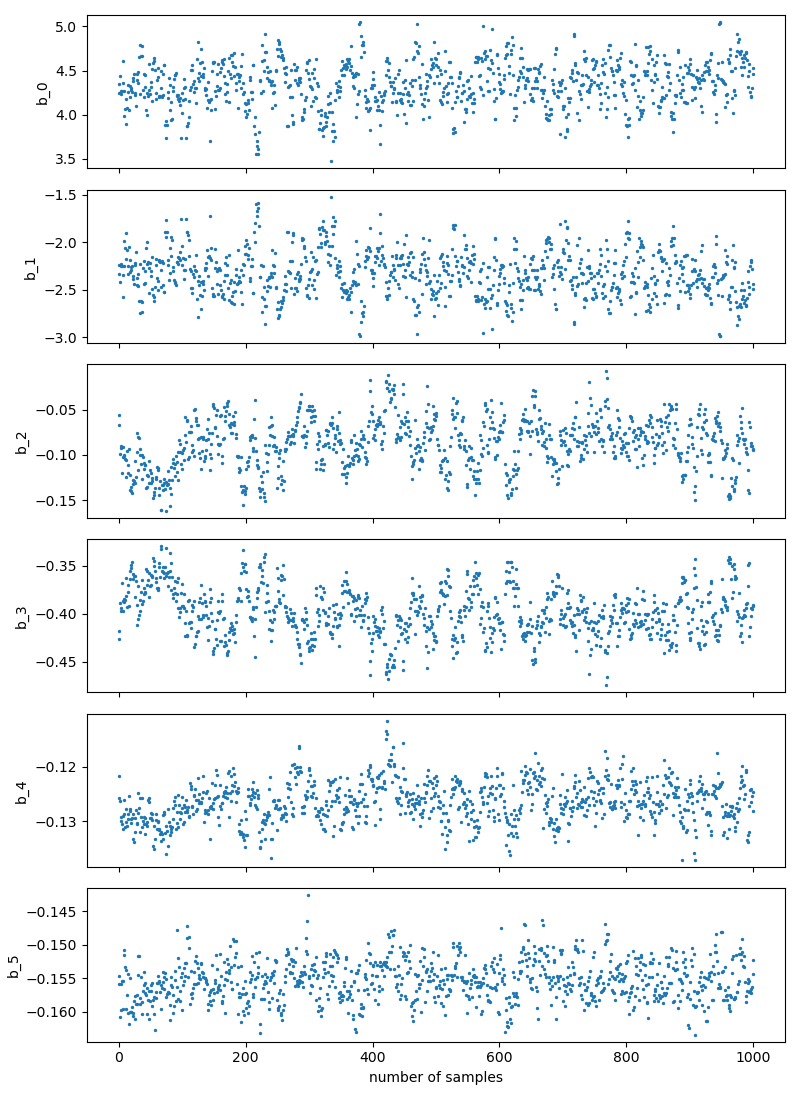
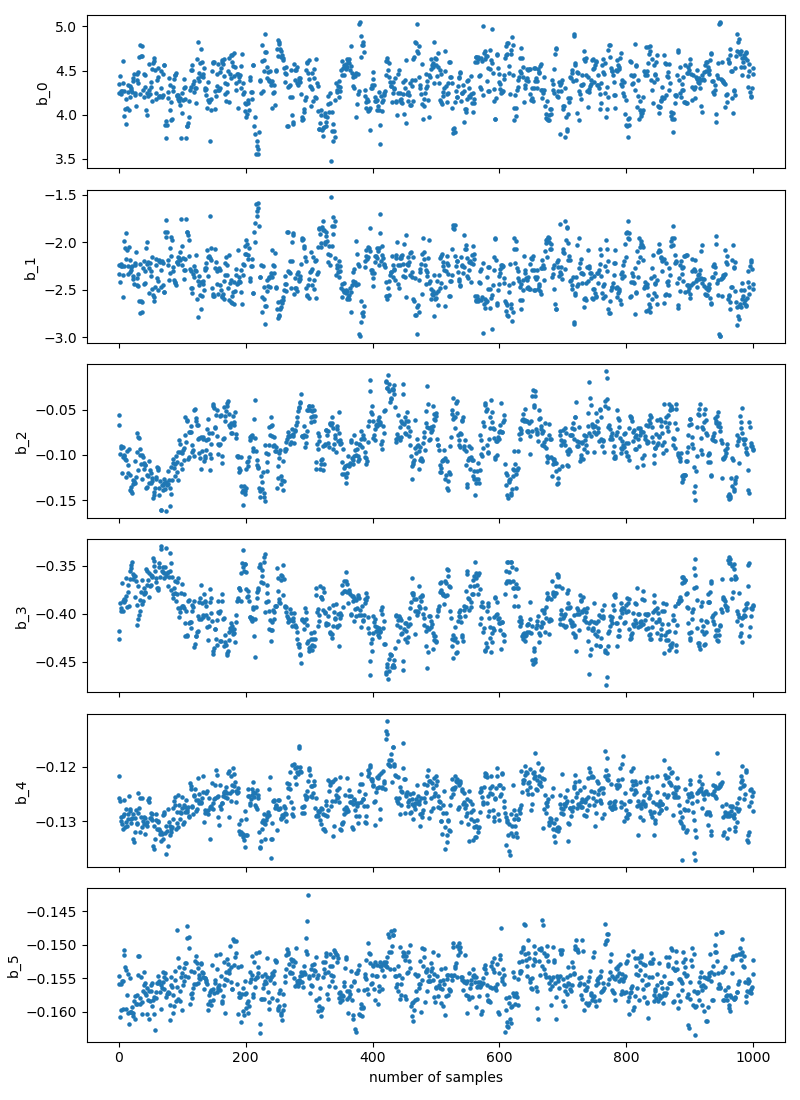
Updates to bayes model plots

diff --git a/bayes.py b/bayes.py
@@ -57,7 +57,7 @@ def fetch_model(x, params, model_id):
 def get_pred(num_cycles, params, model_id, scale=1000):
     """Helper function to access predictions for discharge capacity"""
     n_samples = params[0].shape[0]
-    params_preproc = [[params[0][i], params[1][i], params[2]] for i in range(n_samples)]
+    params_preproc = [[params[0][i], params[1][i], params[2][i]] for i in range(n_samples)]
 
     x = np.linspace(0, num_cycles, num_cycles) / scale  # / cycle_life
     # y_pred = fetch_model(x, params, model_id)
@@ -68,7 +68,7 @@ def get_pred(num_cycles, params, model_id, scale=1000):
 
 def get_rul(threshold, params, model_id, scale=1000):
     """Helper function to access prediction for remianing useful life"""
-    y_val = params[2]  # nominal
+    y_val = params[2][0]  # nominal
     count = 0
     while y_val > threshold:
         count += 1
@@ -130,7 +130,7 @@ def plot_predicted_curve(y_test, test_bat_ids, params, model_id, num_plots=1, sc
         plt.show(); plt.close()
 
 
-def plot_predicted_curve_with_error(y_test, test_bat_ids, params, model_id, num_plots=1, scale=1000):
+def plot_predicted_curve_with_error(y_test, test_bat_ids, params, model_id, num_plots=10, scale=1000):
     """Plot y_true vs y_pred for specified alpha, beta, gamma"""
     plt.rcParams.update({'font.size': 14})
     for i, id in enumerate(test_bat_ids):
@@ -161,7 +161,7 @@ def plot_predicted_curve_with_error(y_test, test_bat_ids, params, model_id, num_
 
         # outfile = 'example_inv_sigmoid.png'
         # outfile = 'example_exponetial_decay.png'
-        outfile = 'bayes_plot_with_error_' + id + '.png'
+        outfile = 'bayes_plot_with_error_train_' + id + '.png'
         plt.savefig(os.path.join('figs', outfile))
         plt.show(); plt.close()
 
@@ -268,14 +268,14 @@ def prepare_code_for_stan():
     }
     }
     model {
-        a_0 ~ normal(2.5, 1);
+        a_0 ~ normal(5, 1);
         a_1 ~ normal(0, 1);
         a_2 ~ normal(0, 1);
         a_3 ~ normal(0, 1);
         a_4 ~ normal(0, 1);
         a_5 ~ normal(0, 1);
 
-        b_0 ~ normal(2.5, 1);
+        b_0 ~ normal(1, 1);
         b_1 ~ normal(0, 1);
         b_2 ~ normal(0, 1);
         b_3 ~ normal(0, 1);
@@ -398,9 +398,9 @@ if __name__ == '__main__':
     }
     X_test = create_features(test_dat)
     # params = map[MODEL_ID]
-    params = prepare_params_given_samples(fit, X_test)
-    # params = [np.median(fit['alpha'], axis=1), np.median(fit['beta'], axis=1), np.median(fit['gamma'], axis=1)]
-    mse_store, rul_mape_store = evaluate_fit(y_test, params=params, model_id=MODEL_ID)  # y_test
+    # params = prepare_params_given_samples(fit, X_test)
+    params = [fit['alpha'], fit['beta'], fit['gamma']]
+    mse_store, rul_mape_store = evaluate_fit(y_train, params=params, model_id=MODEL_ID)  # y_test
 
     # Autocorrelation
     sample_arr = np.array(fit.to_frame()[[fit.param_names[i] for i in range(13)]])
@@ -418,5 +418,5 @@ if __name__ == '__main__':
 
     print('MSE for Discharge Capacity: {}'.format(np.mean(mse_store)))
     print('MAPE for Remaining Useful Life: {}'.format(np.mean(rul_mape_store)))
-    plot_predicted_curve(y_test, test_bat_ids, params=params, model_id=MODEL_ID)  # test_bat_ids
-    plot_predicted_curve_with_error(y_test, test_bat_ids, params=params, model_id=MODEL_ID)
+    # plot_predicted_curve(y_test, test_bat_ids, params=params, model_id=MODEL_ID)  # test_bat_ids
+    plot_predicted_curve_with_error(y_train, train_bat_ids, params=params, model_id=MODEL_ID)

diff --git a/bayes2.py b/bayes2.py
@@ -15,7 +15,7 @@ from sklearn.metrics import mean_absolute_percentage_error
 from common import generate_posterior_histograms, generate_traceplots
 
 MODEL_ID = 2
-USE_CACHE = False
+USE_CACHE = True
 
 
 def create_summary_dfs(data):
@@ -70,7 +70,7 @@ def get_rul(threshold, params, model_id, scale=1000):
     """Helper function to access prediction for remianing useful life"""
     y_val = params[2][0]  # nominal
     count = 0
-    while y_val > threshold or count > 2500:
+    while (y_val > threshold) and (count < 2000):
         count += 1
         scaled_x = count / scale
         y_vals = fetch_model(scaled_x, params, model_id)
@@ -329,10 +329,10 @@ def prepare_params_given_samples(fit, X):
     """Helper function to pull together mle estimates given posterior samples"""
     n_samples = fit.num_samples
 
-    alpha = X @ fit['a']
-    beta = X @ fit['b']
+    alpha = fit['a_0'] + X @ fit['a']
+    beta = fit['b_0'] + X @ fit['b']
 
-    gamma = np.repeat(X[:,1].reshape(-1,1), n_samples, axis=1)
+    gamma = np.repeat(X[:,0].reshape(-1,1), n_samples, axis=1)
 
     return [alpha, beta, gamma]
 
@@ -398,23 +398,20 @@ if __name__ == '__main__':
     # params = map[MODEL_ID]
     params = prepare_params_given_samples(fit, X_test)
     # params = [fit['alpha'], fit['beta'], np.median(fit['gamma'], axis=1)]
-    # mse_store, rul_mape_store = evaluate_fit(y_test, params=params, model_id=MODEL_ID)  # y_test
+    mse_store, rul_mape_store = evaluate_fit(y_test, params=params, model_id=MODEL_ID)  # y_test
+    print('MSE for Discharge Capacity: {}'.format(np.mean(mse_store)))
+    print('MAPE for Remaining Useful Life: {}'.format(np.mean(rul_mape_store)))
 
-    # Autocorrelation
-    # sample_arr = np.array(fit.to_frame()[[fit.param_names[i] for i in range(13)]])
-    # ess = arviz.ess(arviz.convert_to_dataset(sample_arr.reshape(1,-1,13)))
-    # print('Number of effective samples: {}'.format(ess.mean()))
+    # autocorrelation
+    sample_arr = np.array(fit.to_frame()[['a_0', 'b_0', 'sigma']])
+    ess = arviz.ess(arviz.convert_to_dataset(sample_arr.reshape(1, -1, 3)))
+    print('Number of effective samples: {}'.format(ess.mean()))
 
-    # write results
-    # param_list_alpha = ['a_0', 'a_1', 'a_2', 'a_3', 'a_4', 'a_5']
-    # generate_posterior_histograms(fit, param_list_alpha, prefix='bayes_alpha_')
-    # generate_traceplots(fit, param_list_alpha, prefix='bayes_alpha_')
+    # posterior marginals
+    param_list_1 = ['a_0', 'b_0', 'sigma']
+    generate_posterior_histograms(fit, param_list_1, prefix='bayes_alpha_')
+    generate_traceplots(fit, param_list_1, prefix='bayes_alpha_')
 
-    # param_list_beta = ['b_0', 'b_1', 'b_2', 'b_3', 'b_4', 'b_5']
-    # generate_posterior_histograms(fit, param_list_beta, prefix='bayes_beta_')
-    # generate_traceplots(fit, param_list_beta, prefix='bayes_beta_')
-
-    # print('MSE for Discharge Capacity: {}'.format(np.mean(mse_store)))
-    # print('MAPE for Remaining Useful Life: {}'.format(np.mean(rul_mape_store)))
-    # plot_predicted_curve(X_test, test_bat_ids, params=params, model_id=MODEL_ID)  # test_bat_ids
-    # plot_predicted_curve_with_error(X_test, test_bat_ids, params=params, model_id=MODEL_ID)
+    # plot soh prediction examples
+    # plot_predicted_curve(y_test, test_bat_ids, params=params, model_id=MODEL_ID)  # test_bat_ids
+    plot_predicted_curve_with_error(y_test, test_bat_ids, params=params, model_id=MODEL_ID)

diff --git a/common.py b/common.py
@@ -42,7 +42,7 @@ def generate_traceplots(fit_obj, param_list, prefix=''):
     fig, ax = plt.subplots(n_params, 1, sharex=True, figsize=(8, 11))
 
     for j in range(n_params):
-        ax[j].scatter(np.linspace(0, n_samples, num=n_samples), fit_obj[param_list[j]], s=2)
+        ax[j].scatter(np.linspace(0, n_samples, num=n_samples), fit_obj[param_list[j]], s=5)
         ax[j].set_ylabel(param_list[j])
     plt.xlabel('number of samples')
     plt.tight_layout()
